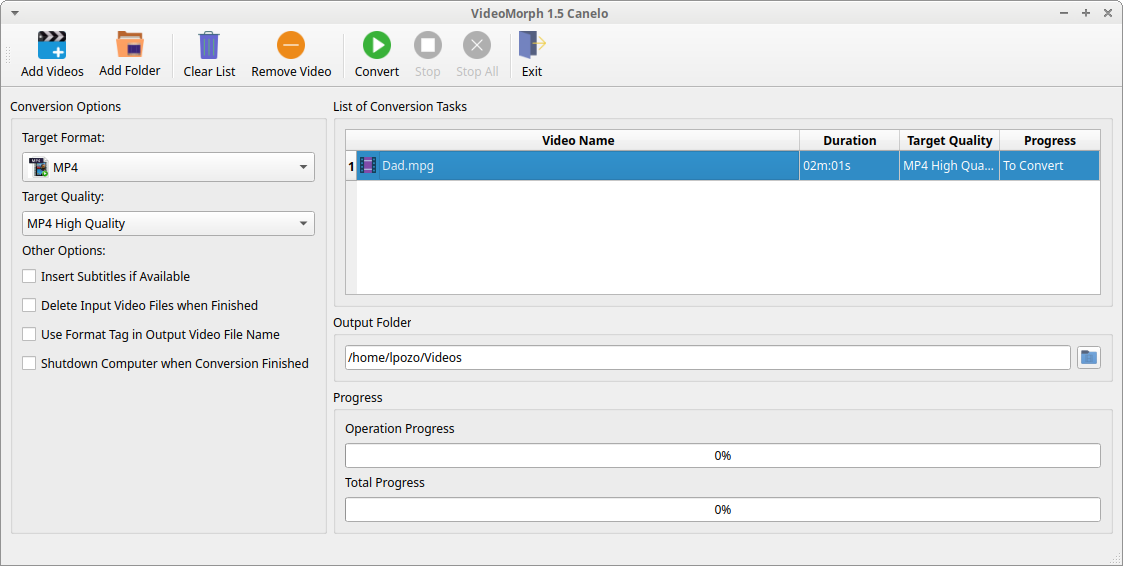
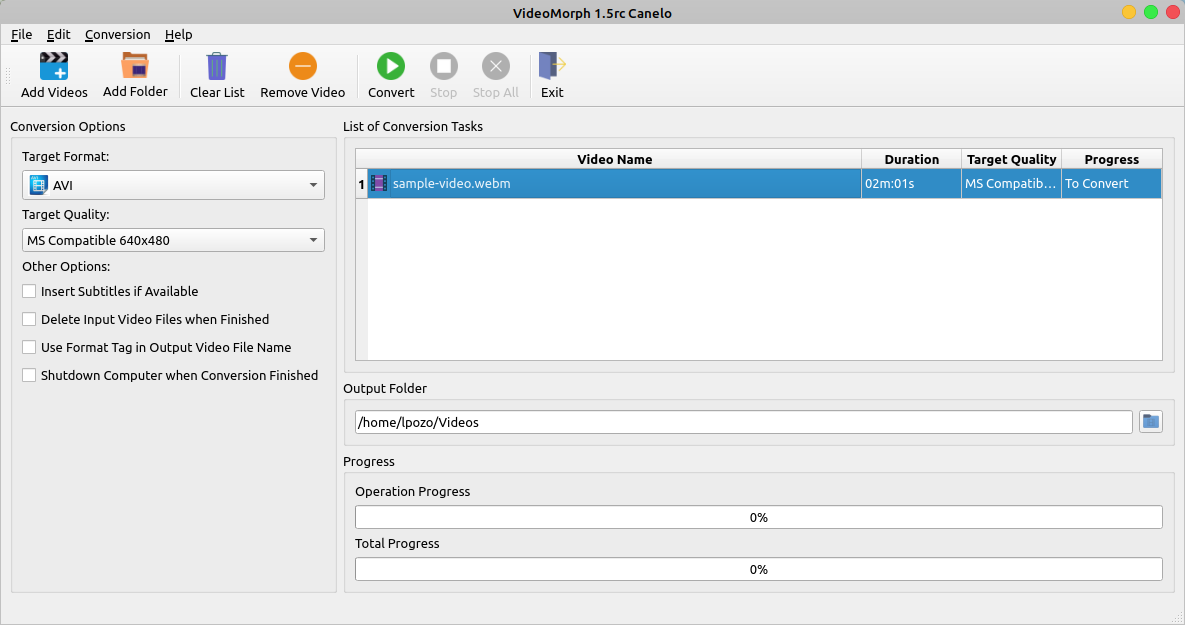
Bump version 1.5rc-canelo

Changed region(s): [[0.0, 0.0, 1.0, 1.0]]

diff --git a/share/doc/videomorph/manual/manual_es.md b/share/doc/videomorph/manual/manual_es.md
@@ -4,7 +4,7 @@
 
 # **<div style="text-align:center;">Manual de Usuario</div>**
 
-<div style="text-align:center;">Version 1.5 “Canelo”</div>
+<div style="text-align:center;">Version 1.5rc “Canelo”</div>
 ---
 
 [TOC]

diff --git a/share/doc/videomorph/manual/manual_en.md b/share/doc/videomorph/manual/manual_en.md
@@ -4,7 +4,7 @@
 
 # **<div style="text-align:center;">User’s Manual</div>**
 
-<div style="text-align:center;">Version 1.5 “Canelo”</div>
+<div style="text-align:center;">Version 1.5rc “Canelo”</div>
 ---
 
 [TOC]
